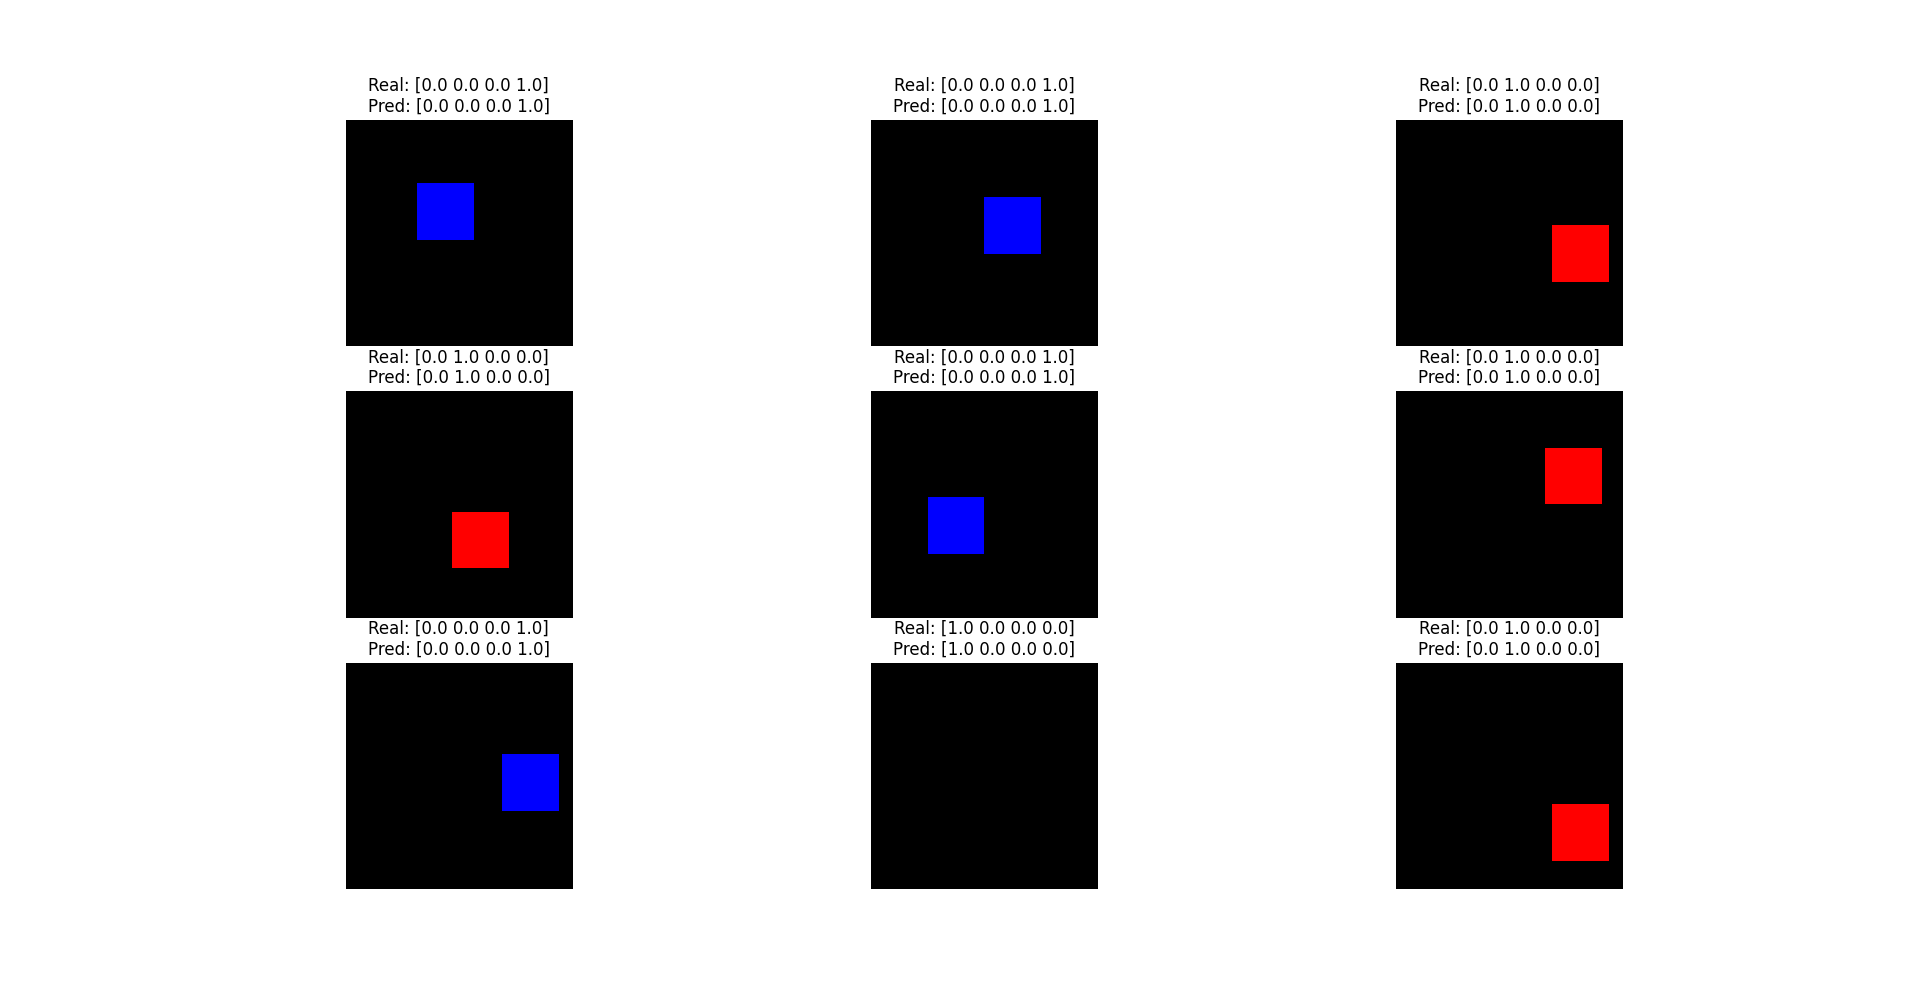
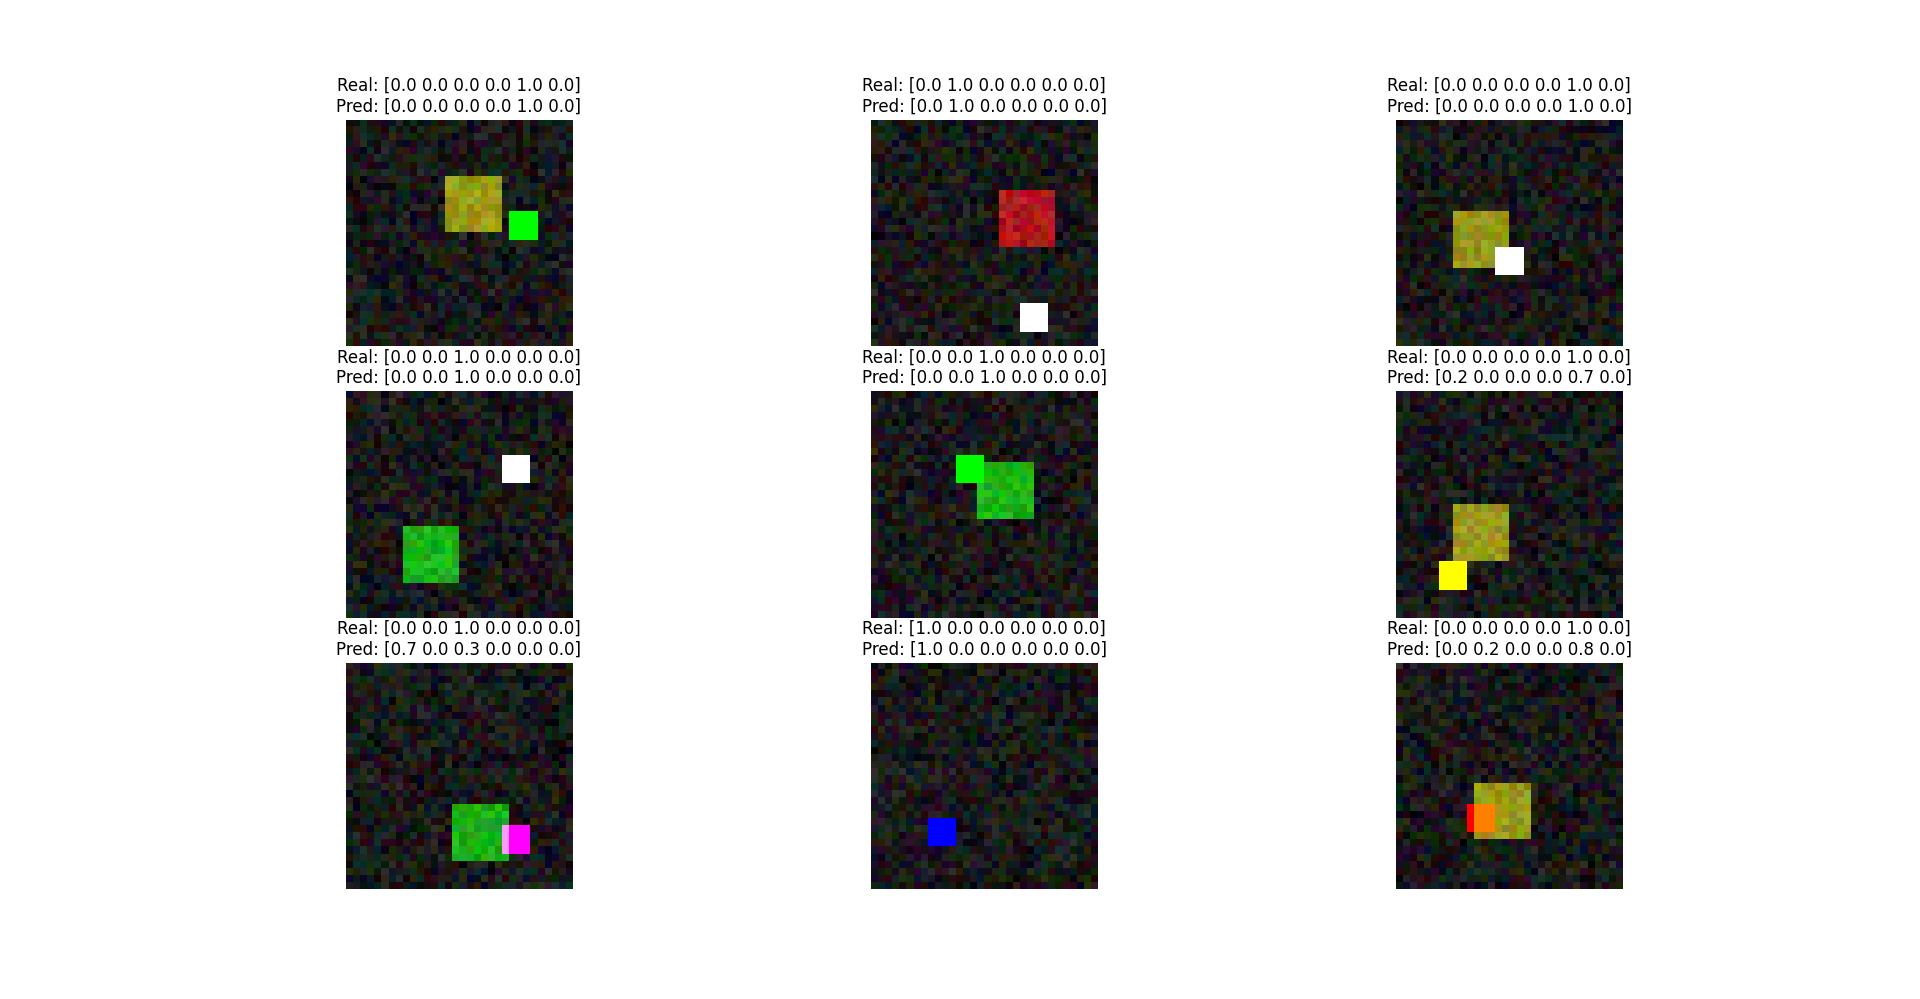
🔴🔵⚫ Objects classification

Changed region(s): [[0.4375, 0.0621, 0.5938, 0.8999], [0.1562, 0.0621, 0.3125, 0.8999], [0.7188, 0.0621, 0.8438, 0.8999]]

diff --git a/2.Classification/main.py b/2.Classification/main.py
@@ -4,38 +4,64 @@ from tensorflow.keras.models import Sequential
 from tensorflow.keras.layers import Flatten, Dense
 
 from tensorflow.keras.utils import plot_model
+from plot_confusion_matrix import plot_confusion_matrix
 
+# Function that generates noise
+def noise():
+    x = np.random.randint(4, high = 32 - 4)
+    y = np.random.randint(4, high = 32 - 4)
+    
+    noise = np.random.random((32, 32, 3))*0.2
+    noise[x:x+4, y:y+4, ...] = np.random.randint(0, 2, size = 3)
+
+    return noise
+
+# Function for generating the dataset
 def dataset_generator(batch_size = 16):
     img_shape = (32, 32, 3)
-    obgject_size = 8
-    
+    object_size = 8 
 
     while True:
         x_train = np.zeros((batch_size, img_shape[0], img_shape[1], img_shape[2]))
-        y_train = np.zeros((batch_size, 4))
+        # The classes are represented by the colors
+        y_train = np.zeros((batch_size, 6))
 
         for b in range(batch_size):
 
-            selector = np.random.randint(0, high = 4, size = 1)
+            selector = np.random.randint(0, high = 6, size = 1)
 
-            x = np.random.randint(obgject_size, high = img_shape[0] - obgject_size)
-            y = np.random.randint(obgject_size, high = img_shape[0] - obgject_size)
-
+            x = np.random.randint(object_size, high = img_shape[0] - object_size)
+            y = np.random.randint(object_size, high = img_shape[1] - object_size)
+            
+            # Create and object randomly (random position and random class)
             if selector == 1:
-                x_train[b, x:x+obgject_size, y:y+obgject_size, 0] = 1
+                x_train[b, x:x+object_size, y:y+object_size, 0] = 0.6
                 y_train[b, 1] = 1.0
             elif selector == 2:
-                x_train[b, x:x+obgject_size, y:y+obgject_size, 1] = 1
+                x_train[b, x:x+object_size, y:y+object_size, 1] = 0.6
                 y_train[b, 2] = 1.0
             elif selector == 3:
-                x_train[b, x:x+obgject_size, y:y+obgject_size, 2] = 1
+                x_train[b, x:x+object_size, y:y+object_size, 2] = 0.6
                 y_train[b, 3] = 1.0
+            elif selector == 4:
+                x_train[b, x:x+object_size, y:y+object_size, 0] = 0.5
+                x_train[b, x:x+object_size, y:y+object_size, 1] = 0.5
+                y_train[b, 4] = 1.0
+            elif selector == 5:
+                x_train[b, x:x+object_size, y:y+object_size, 0] = 0.5
+                x_train[b, x:x+object_size, y:y+object_size, 2] = 0.5
+                y_train[b, 5] = 1.0
             else:
                 x_train[b, ...] = 0
                 y_train[b, 0] = 1.0
+            
+            # Add noise to the batches
+            x_train[b, ...] = x_train[b, ...] + noise()
+            x_train[b, ...] = np.clip(x_train[b, ...], 0.0, 1.0)
         
         yield x_train, y_train
 
+# Create the model
 def build_model():
     model = Sequential()
     model.add(Flatten(input_shape=(32, 32, 3)))
@@ -43,9 +69,9 @@ def build_model():
     model.add(Dense(128, activation = 'relu'))
     model.add(Dense(64, activation = 'relu'))
     model.add(Dense(16, activation = 'relu'))
-    model.add(Dense(4, activation = 'softmax'))
+    model.add(Dense(6, activation = 'softmax'))
 
-    model.compile(loss='binary_crossentropy', optimizer = 'adam')
+    model.compile(loss='binary_crossentropy', optimizer = 'adam', metrics=['accuracy'])
 
     print(model.summary)
     plot_model(model, to_file='model_plot.png', show_shapes=True, show_layer_names=True)
@@ -53,9 +79,10 @@ def build_model():
     return model
 
 
-
+# Create the model
 model = build_model()
 
+# Train the model
 history = model.fit_generator(
     dataset_generator(16),
     steps_per_epoch=1000//16,
@@ -64,25 +91,67 @@ history = model.fit_generator(
     epochs = 10
 )
 
-
-gen = iter(dataset_generator(16))
+# Test the model
+gen = iter(dataset_generator(512))
 x_train, y_train = next(gen)
 pred = model.predict(x_train)
 
-print(y_train)
-print(pred)
-
 
 fig, axes = plt.subplots(nrows=3, ncols=3, figsize = (12, 12))
-
 counter = 0
 for i in range(3):
     for j in range(3):
         axes[i,j].imshow(x_train[counter,...], cmap = 'gray')
-        axes[i,j].set_title('Real: [%1.1f %1.1f %1.1f %1.1f]\nPred: [%1.1f %1.1f %1.1f %1.1f]'  
-                            % (y_train[counter,0], y_train[counter, 1], y_train[counter, 2], y_train[counter, 3], 
-                               pred[counter,0], pred[counter, 1], pred[counter, 2], pred[counter, 3]))
+        axes[i,j].set_title('Real: [%1.1f %1.1f %1.1f %1.1f %1.1f %1.1f]\nPred: [%1.1f %1.1f %1.1f %1.1f %1.1f %1.1f]'  
+                            % (y_train[counter, 0], y_train[counter, 1], y_train[counter, 2], y_train[counter, 3],
+                               y_train[counter, 4], y_train[counter, 5], pred[counter,0], pred[counter, 1],
+                               pred[counter, 2], pred[counter, 3], pred[counter, 4], pred[counter, 5]))
         axes[i,j].axis(False)
         counter = counter + 1
 
 plt.show()
+
+# Plot confusion matrix
+def getLabels(one_hot_encoded):
+    l = np.argmax(one_hot_encoded, axis=1)
+    labels = []
+
+    for i in range(one_hot_encoded.shape[0]):
+        if l[i] == 0:
+            labels.append('None')
+        elif l[i] == 1:
+            labels.append('Red')
+        elif l[i] == 2:
+            labels.append('Green')
+        elif l[i] == 3:
+            labels.append('Blue')
+        elif l[i] == 4:
+            labels.append('Yellow')
+        elif l[i] == 5:
+            labels.append('Fuchsia')
+
+    return labels
+
+
+from sklearn.metrics import confusion_matrix
+
+labels = ['None', 'Red', 'Green', 'Blue', 'Yellow', 'Fuchsia']
+
+pl = getLabels(pred)
+cl = getLabels(y_train)
+
+cm = confusion_matrix(pl, cl, labels)
+
+np.set_printoptions(precision=2)
+
+# Plot non-normalized confusion matrix
+plt.figure()
+plot_confusion_matrix(cm, classes=['None', 'Red', 'Green', 'Blue', 'Yellow', 'Fuchsia'],
+                      title='Confusion matrix, without normalization')
+
+# Plot normalized confusion matrix
+plt.figure()
+plot_confusion_matrix(cm, classes=['None', 'Red', 'Green', 'Blue', 'Yellow', 'Fuchsia'], normalize=True,
+                      title='Confusion matrix, without normalization')
+
+

diff --git a/2.Classification/plot_confusion_matrix.py b/2.Classification/plot_confusion_matrix.py
@@ -1,0 +1,38 @@
+import matplotlib.pyplot as plt
+import numpy as np
+
+def plot_confusion_matrix(cm, classes,
+                          normalize=False,
+                          title='Confusion matrix',
+                          cmap=plt.cm.Blues):
+    """
+    This function prints and plots the confusion matrix.
+    Normalization can be applied by setting `normalize=True`.
+    """
+    import itertools
+    if normalize:
+        cm = cm.astype('float') / cm.sum(axis=1)[:, np.newaxis]
+        print("Normalized confusion matrix")
+    else:
+        print('Confusion matrix, without normalization')
+
+    print(cm)
+
+    plt.imshow(cm, interpolation='nearest', cmap=cmap)
+    plt.title(title)
+    plt.colorbar()
+    tick_marks = np.arange(len(classes))
+    plt.xticks(tick_marks, classes, rotation=45)
+    plt.yticks(tick_marks, classes)
+
+    fmt = '.2f' if normalize else 'd'
+    thresh = cm.max() / 2.
+    for i, j in itertools.product(range(cm.shape[0]), range(cm.shape[1])):
+        plt.text(j, i, format(cm[i, j], fmt),
+                 horizontalalignment="center",
+                 color="white" if cm[i, j] > thresh else "black")
+
+    plt.ylabel('True label')
+    plt.xlabel('Predicted label')
+    plt.tight_layout()
+    plt.show()
